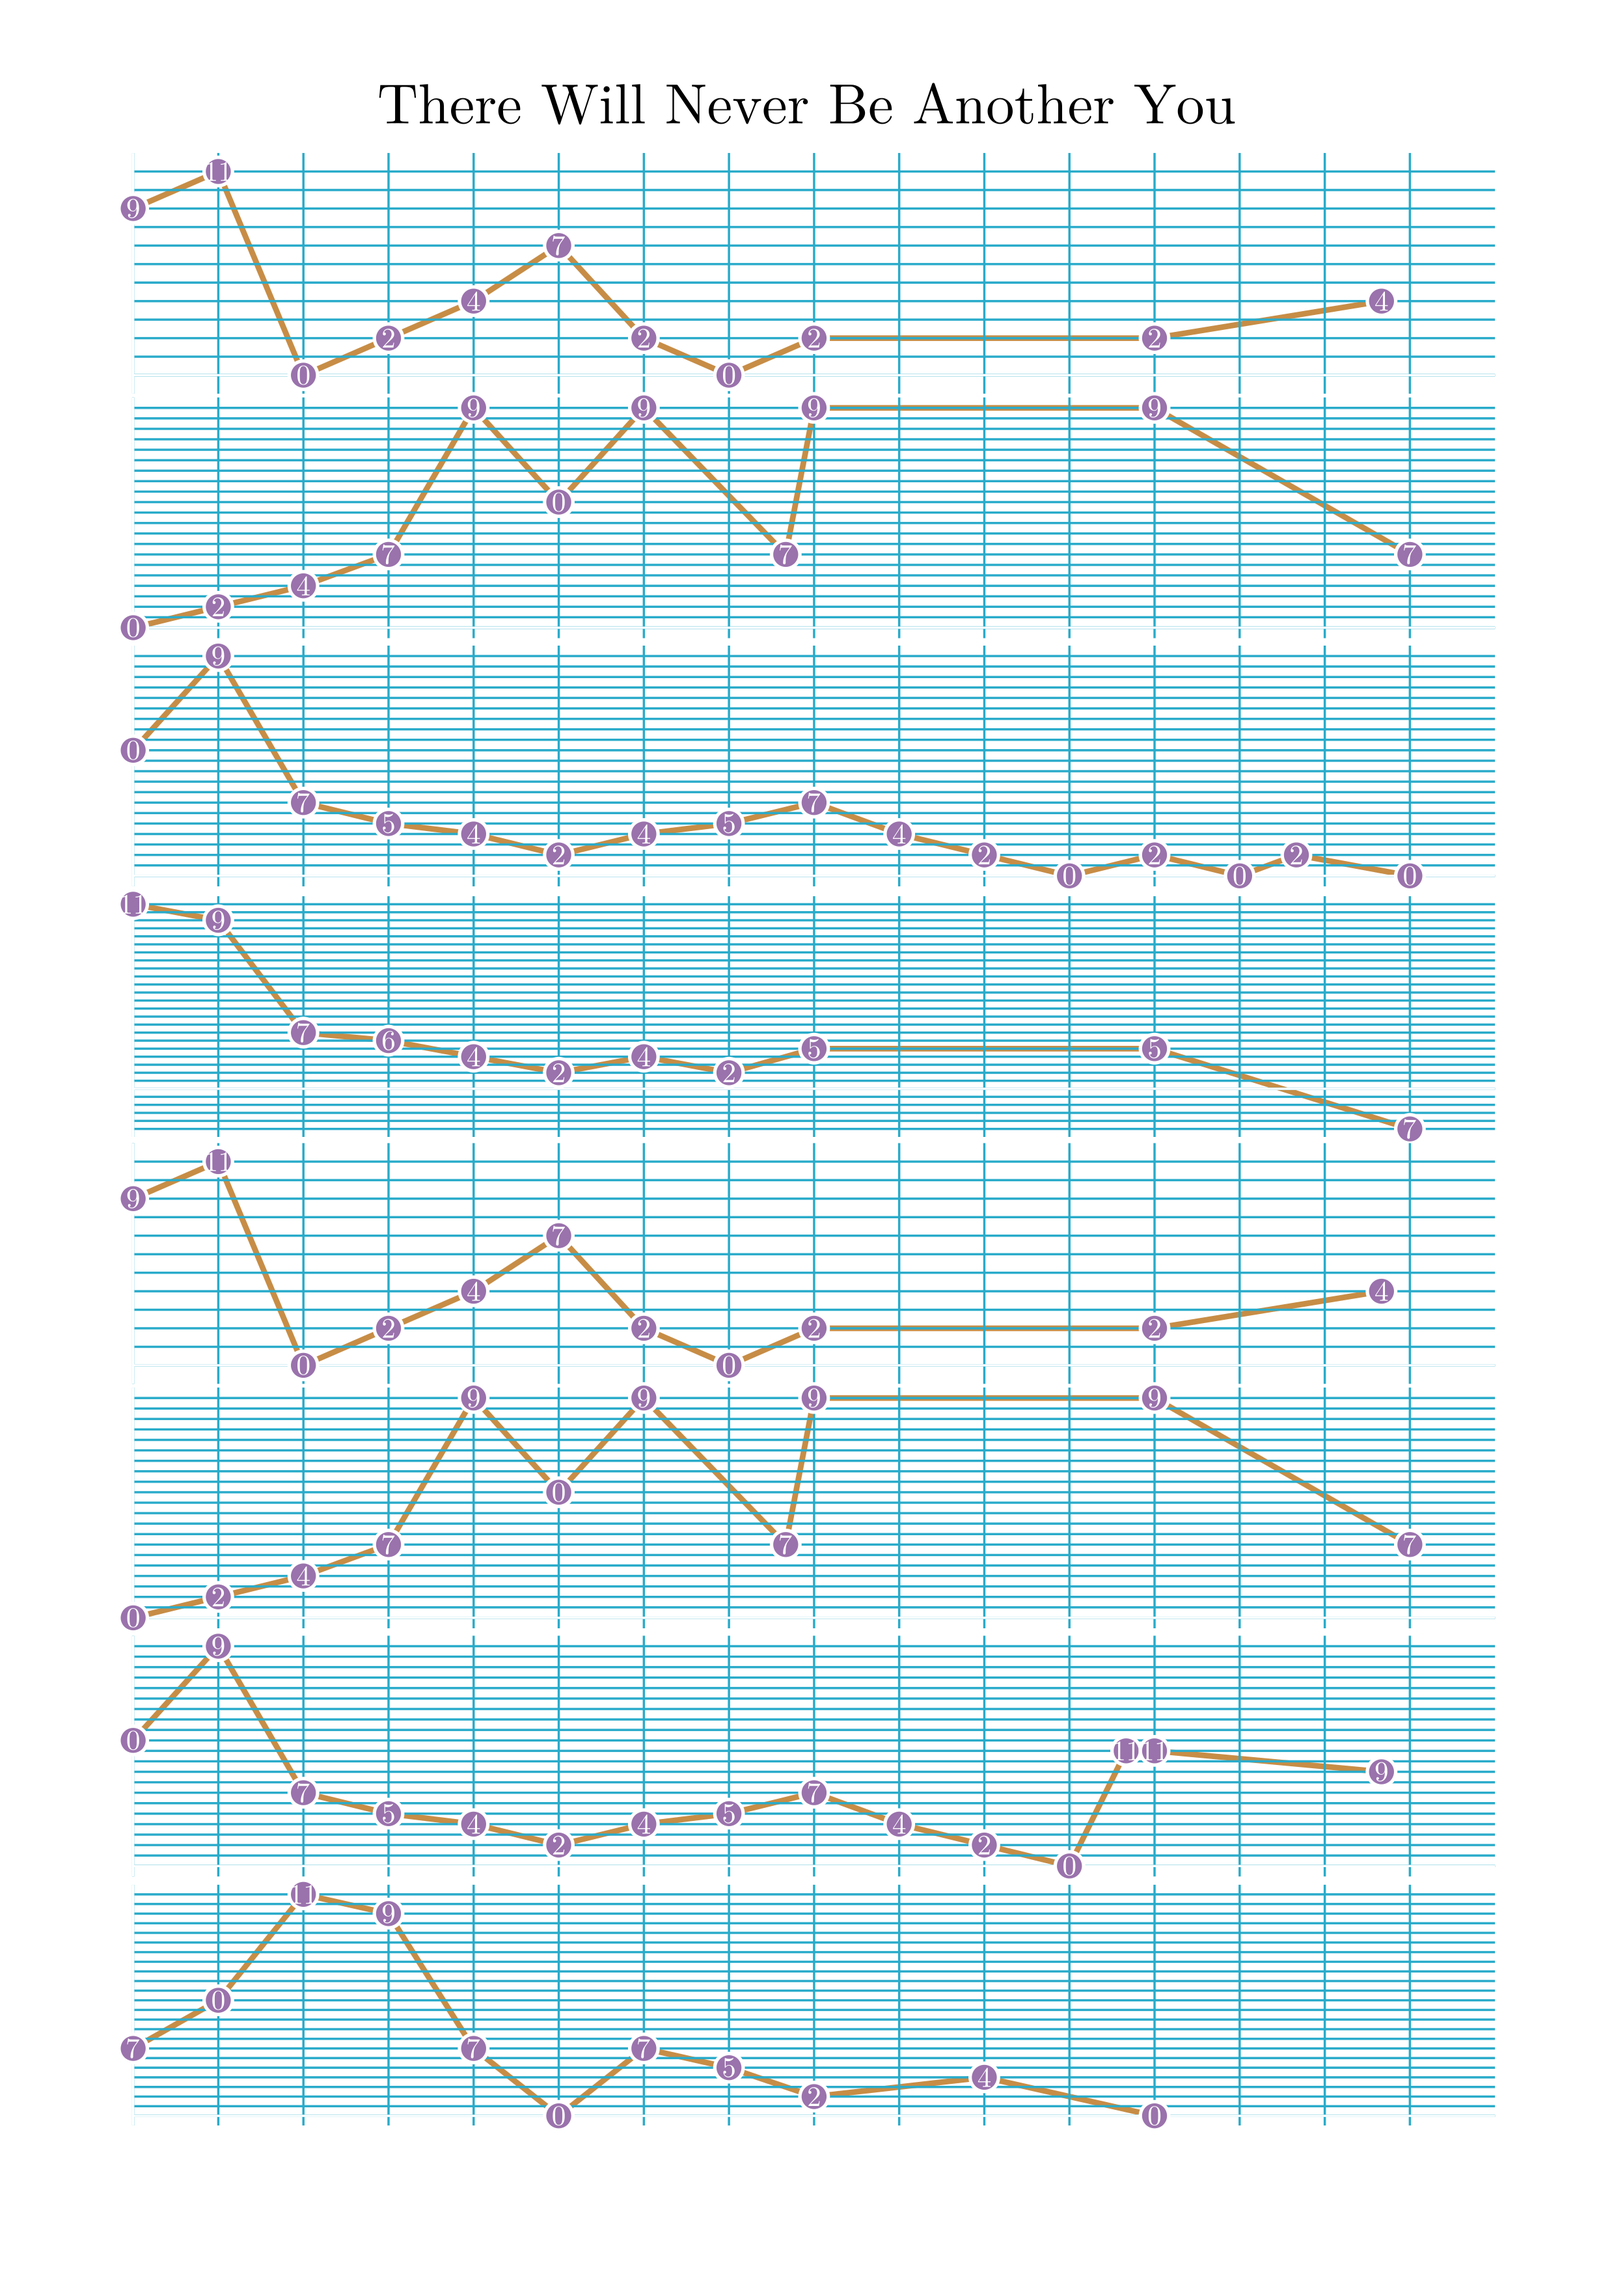
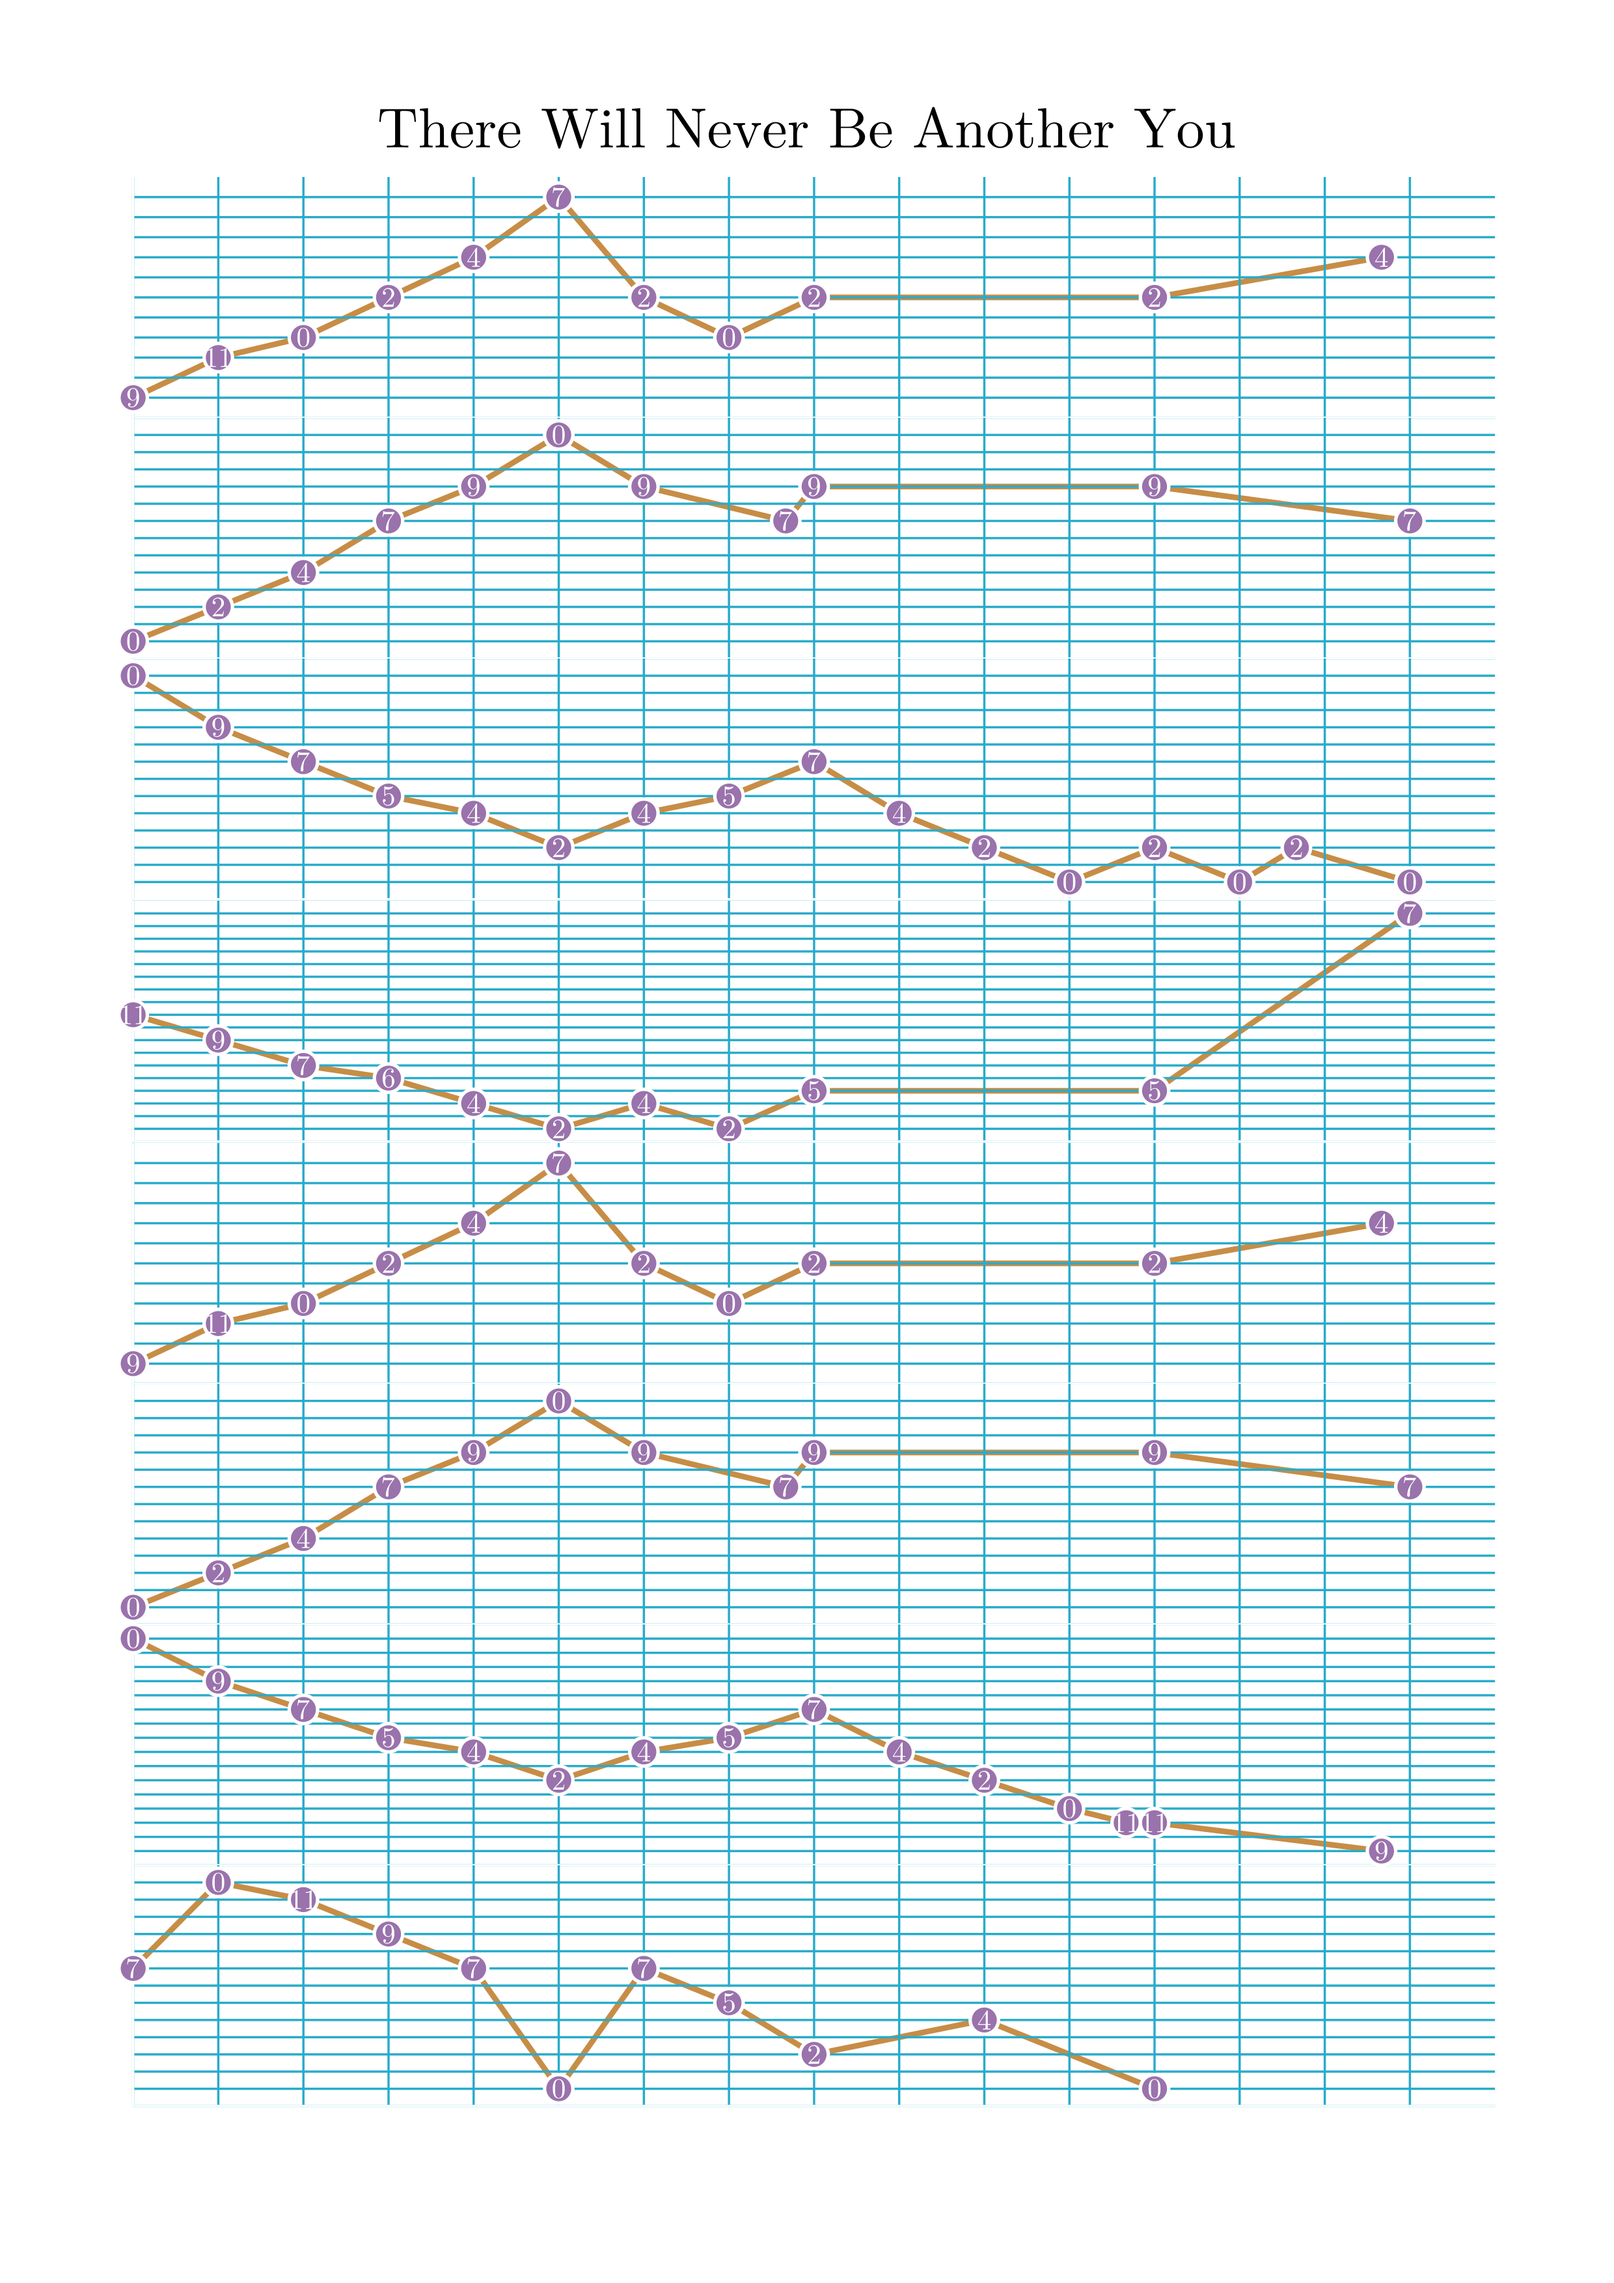
create melody sheet

Changed region(s): [[0.0621, 0.0311, 0.9315, 0.9322]]

diff --git a/graph_music_data.py b/graph_music_data.py
@@ -100,35 +100,35 @@ st_thomas = [
 ]
 
 A = [
-    [("9 11 0 2", [b, b, b, b])],
-    [("4 7 2 0", [b, b, b, b])],
-    [("2", [4*b])],
-    [("2 R 4", [2*b, tt, t + b ])],
-    [("0 2 4 7", [b, b, b, b])],
-    [("9' 0' 9' 7", [b, b, b + tt, t])],
+    [("9 11 0' 2'", [b, b, b, b])],
+    [("4' 7' 2' 0'", [b, b, b, b])],
+    [("2'", [4*b])],
+    [("2' R 4'", [2*b, tt, t + b ])],
+    [("0' 2' 4' 7'", [b, b, b, b])],
+    [("9' 0'' 9' 7'", [b, b, b + tt, t])],
     [("9'", [4*b])],
-    [("9' 7", [3*b, b])],
+    [("9' 7'", [3*b, b])],
 ]
 
 there_will_never_be_another_you = [
     *A,
-    [("0' 9' 7 5", [b, b, b, b])],
-    [("4 2 4 5", [b, b, b, b])],
-    [("7 4 2 0", [b, b, b, b])],
-    [("2 0 2 0", [b, tt, t + b, b])],
-    [("11' 9' 7 6", [b, b, b, b])],
-    [("4 2 4 2", [b, b, b, b])],
-    [("5", [4*b])],
-    [("5 7,", [3*b, b])],
+    [("0'' 9' 7' 5'", [b, b, b, b])],
+    [("4' 2' 4' 5'", [b, b, b, b])],
+    [("7' 4' 2' 0'", [b, b, b, b])],
+    [("2' 0' 2' 0'", [b, tt, t + b, b])],
+    [("11' 9' 7' 6'", [b, b, b, b])],
+    [("4' 2' 4' 2'", [b, b, b, b])],
+    [("5'", [4*b])],
+    [("5' 7',", [3*b, b])],
     *A,
-    [("0' 9' 7 5", [b, b, b, b])],
-    [("4 2 4 5", [b, b, b, b])],
-    [("7 4 2 0 11", [b, b, b, tt, t])],
+    [("0'' 9' 7' 5'", [b, b, b, b])],
+    [("4' 2' 4' 5'", [b, b, b, b])],
+    [("7' 4' 2' 0' 11", [b, b, b, tt, t])],
     [("11 R 9", [2*b, tt, t + b])],
-    [("7 0' 11' 9'", [b, b, b, b])],
-    [("7 0 7 5", [b, b, b, b])],
-    [("2 4", [2*b, 2*b])],
-    [("0", [4*b])],
+    [("7' 0'' 11' 9'", [b, b, b, b])],
+    [("7' 0' 7' 5'", [b, b, b, b])],
+    [("2' 4'", [2*b, 2*b])],
+    [("0'", [4*b])],
 ]
 
 
